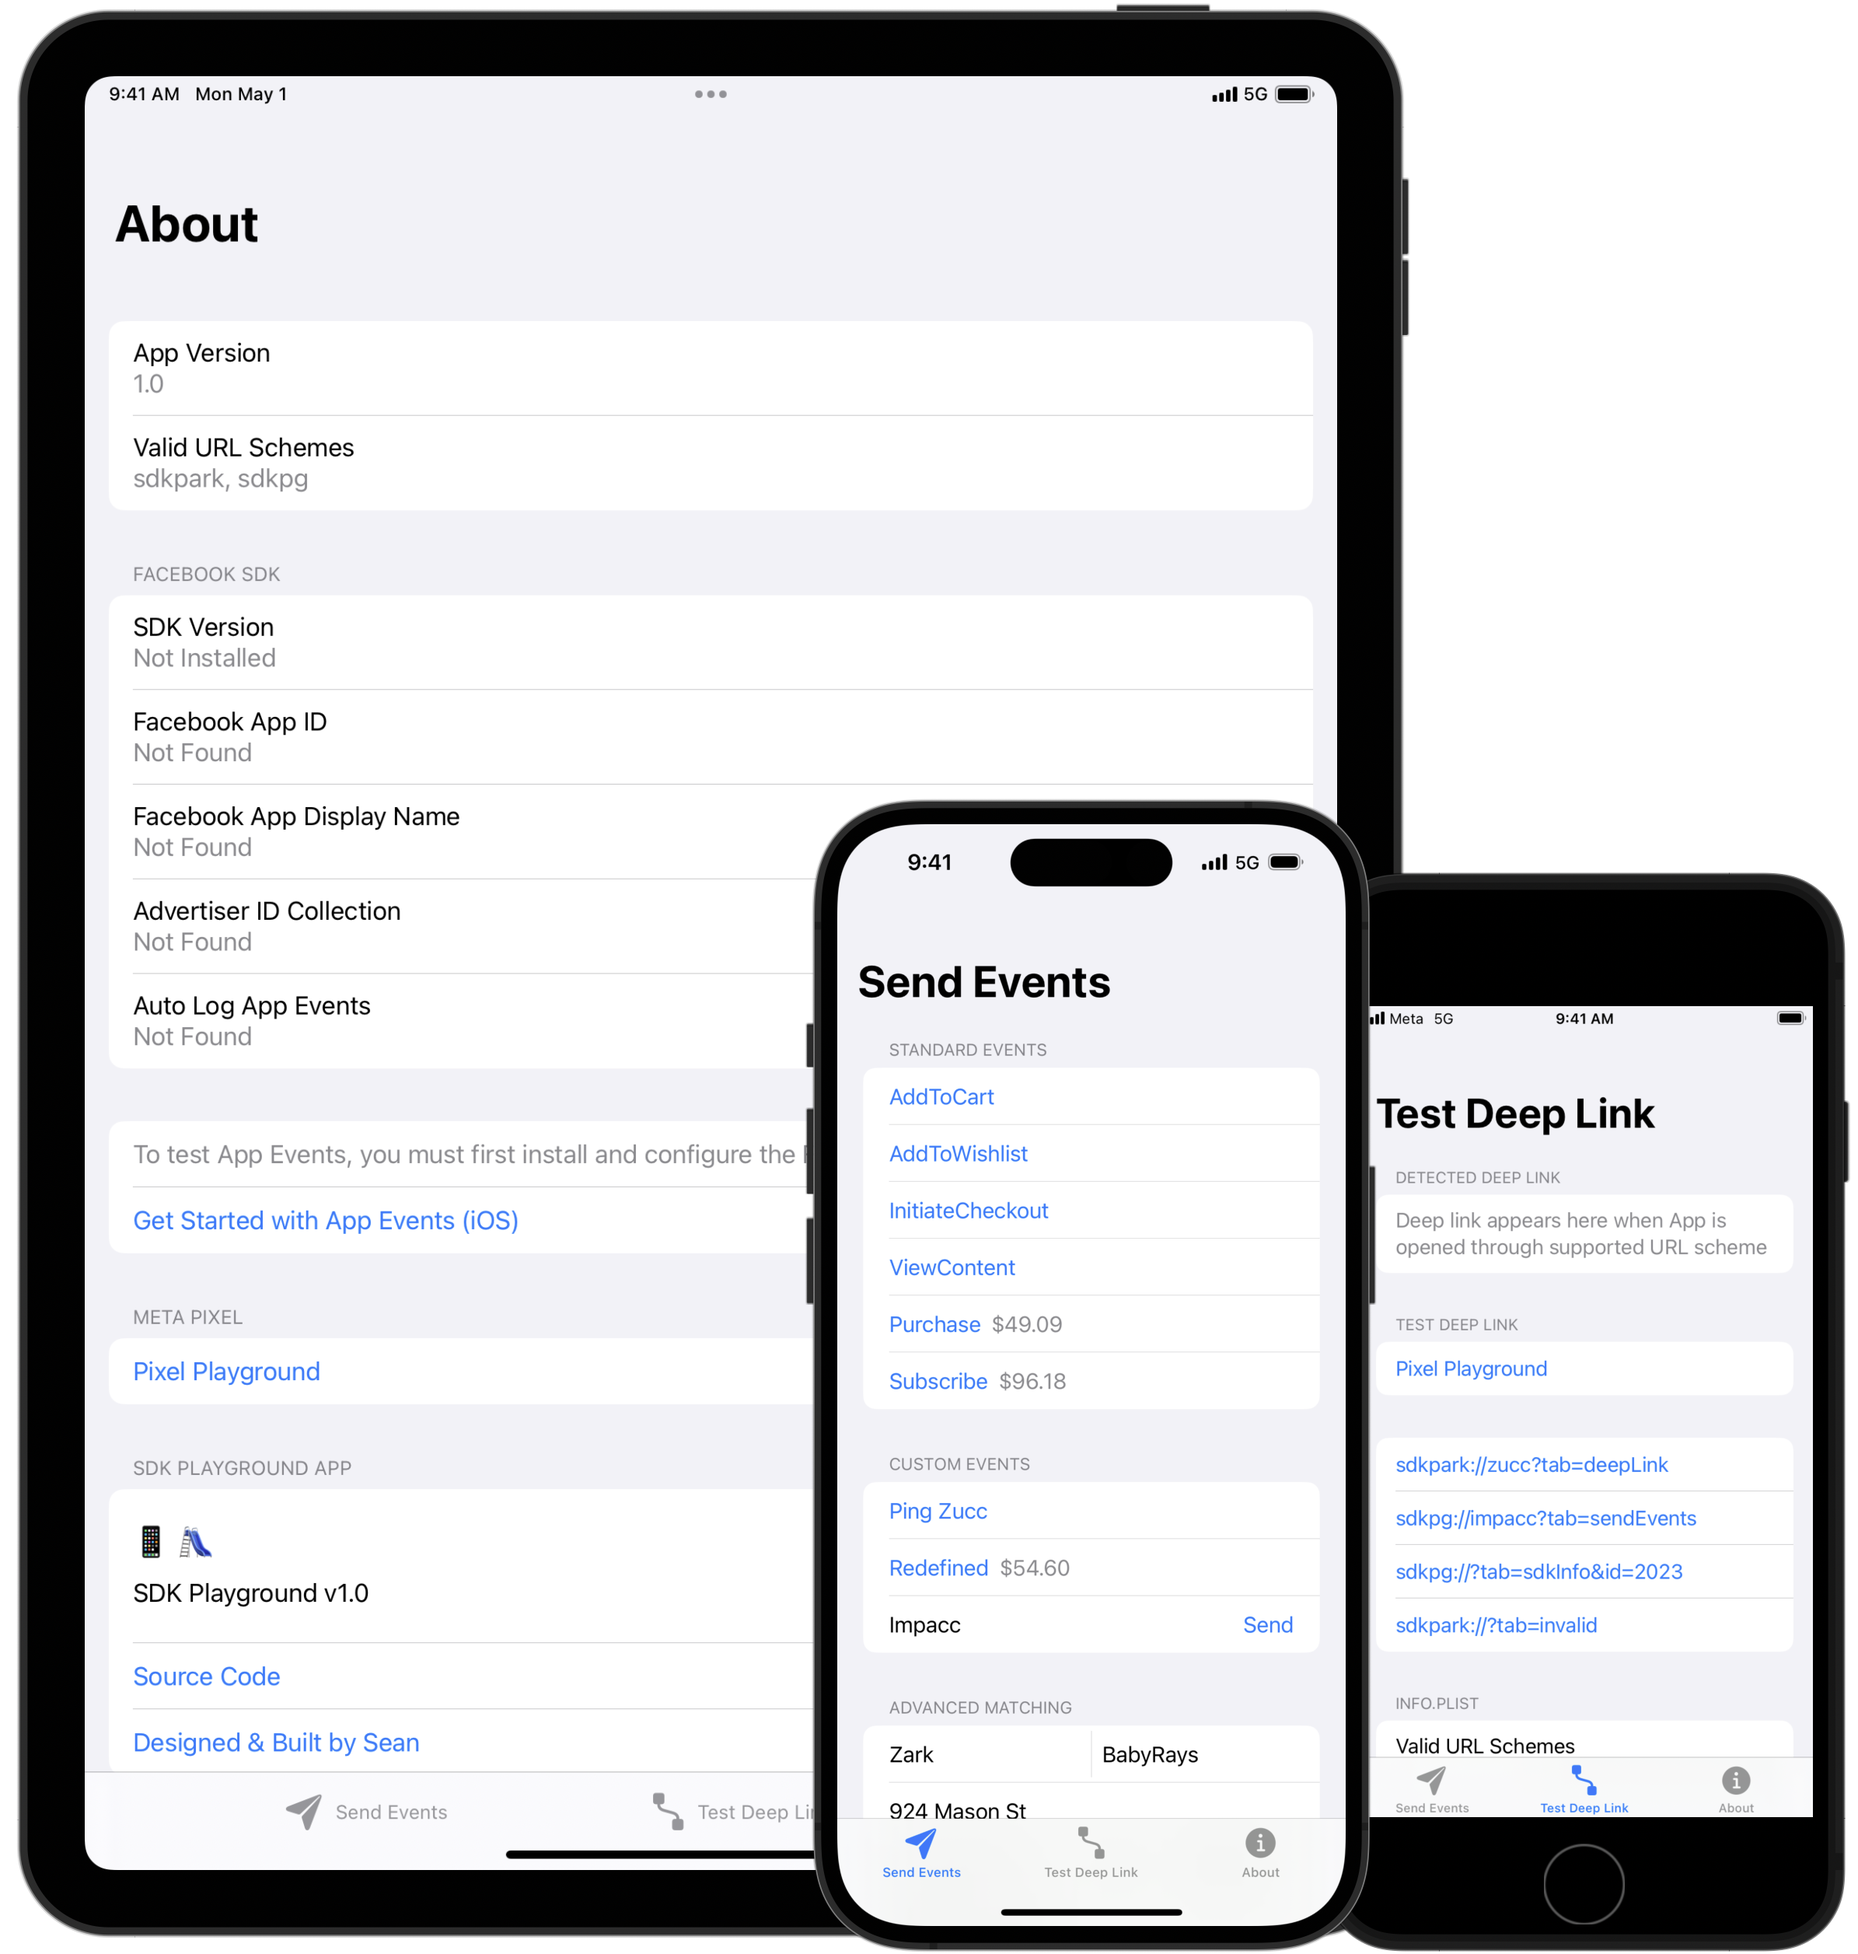
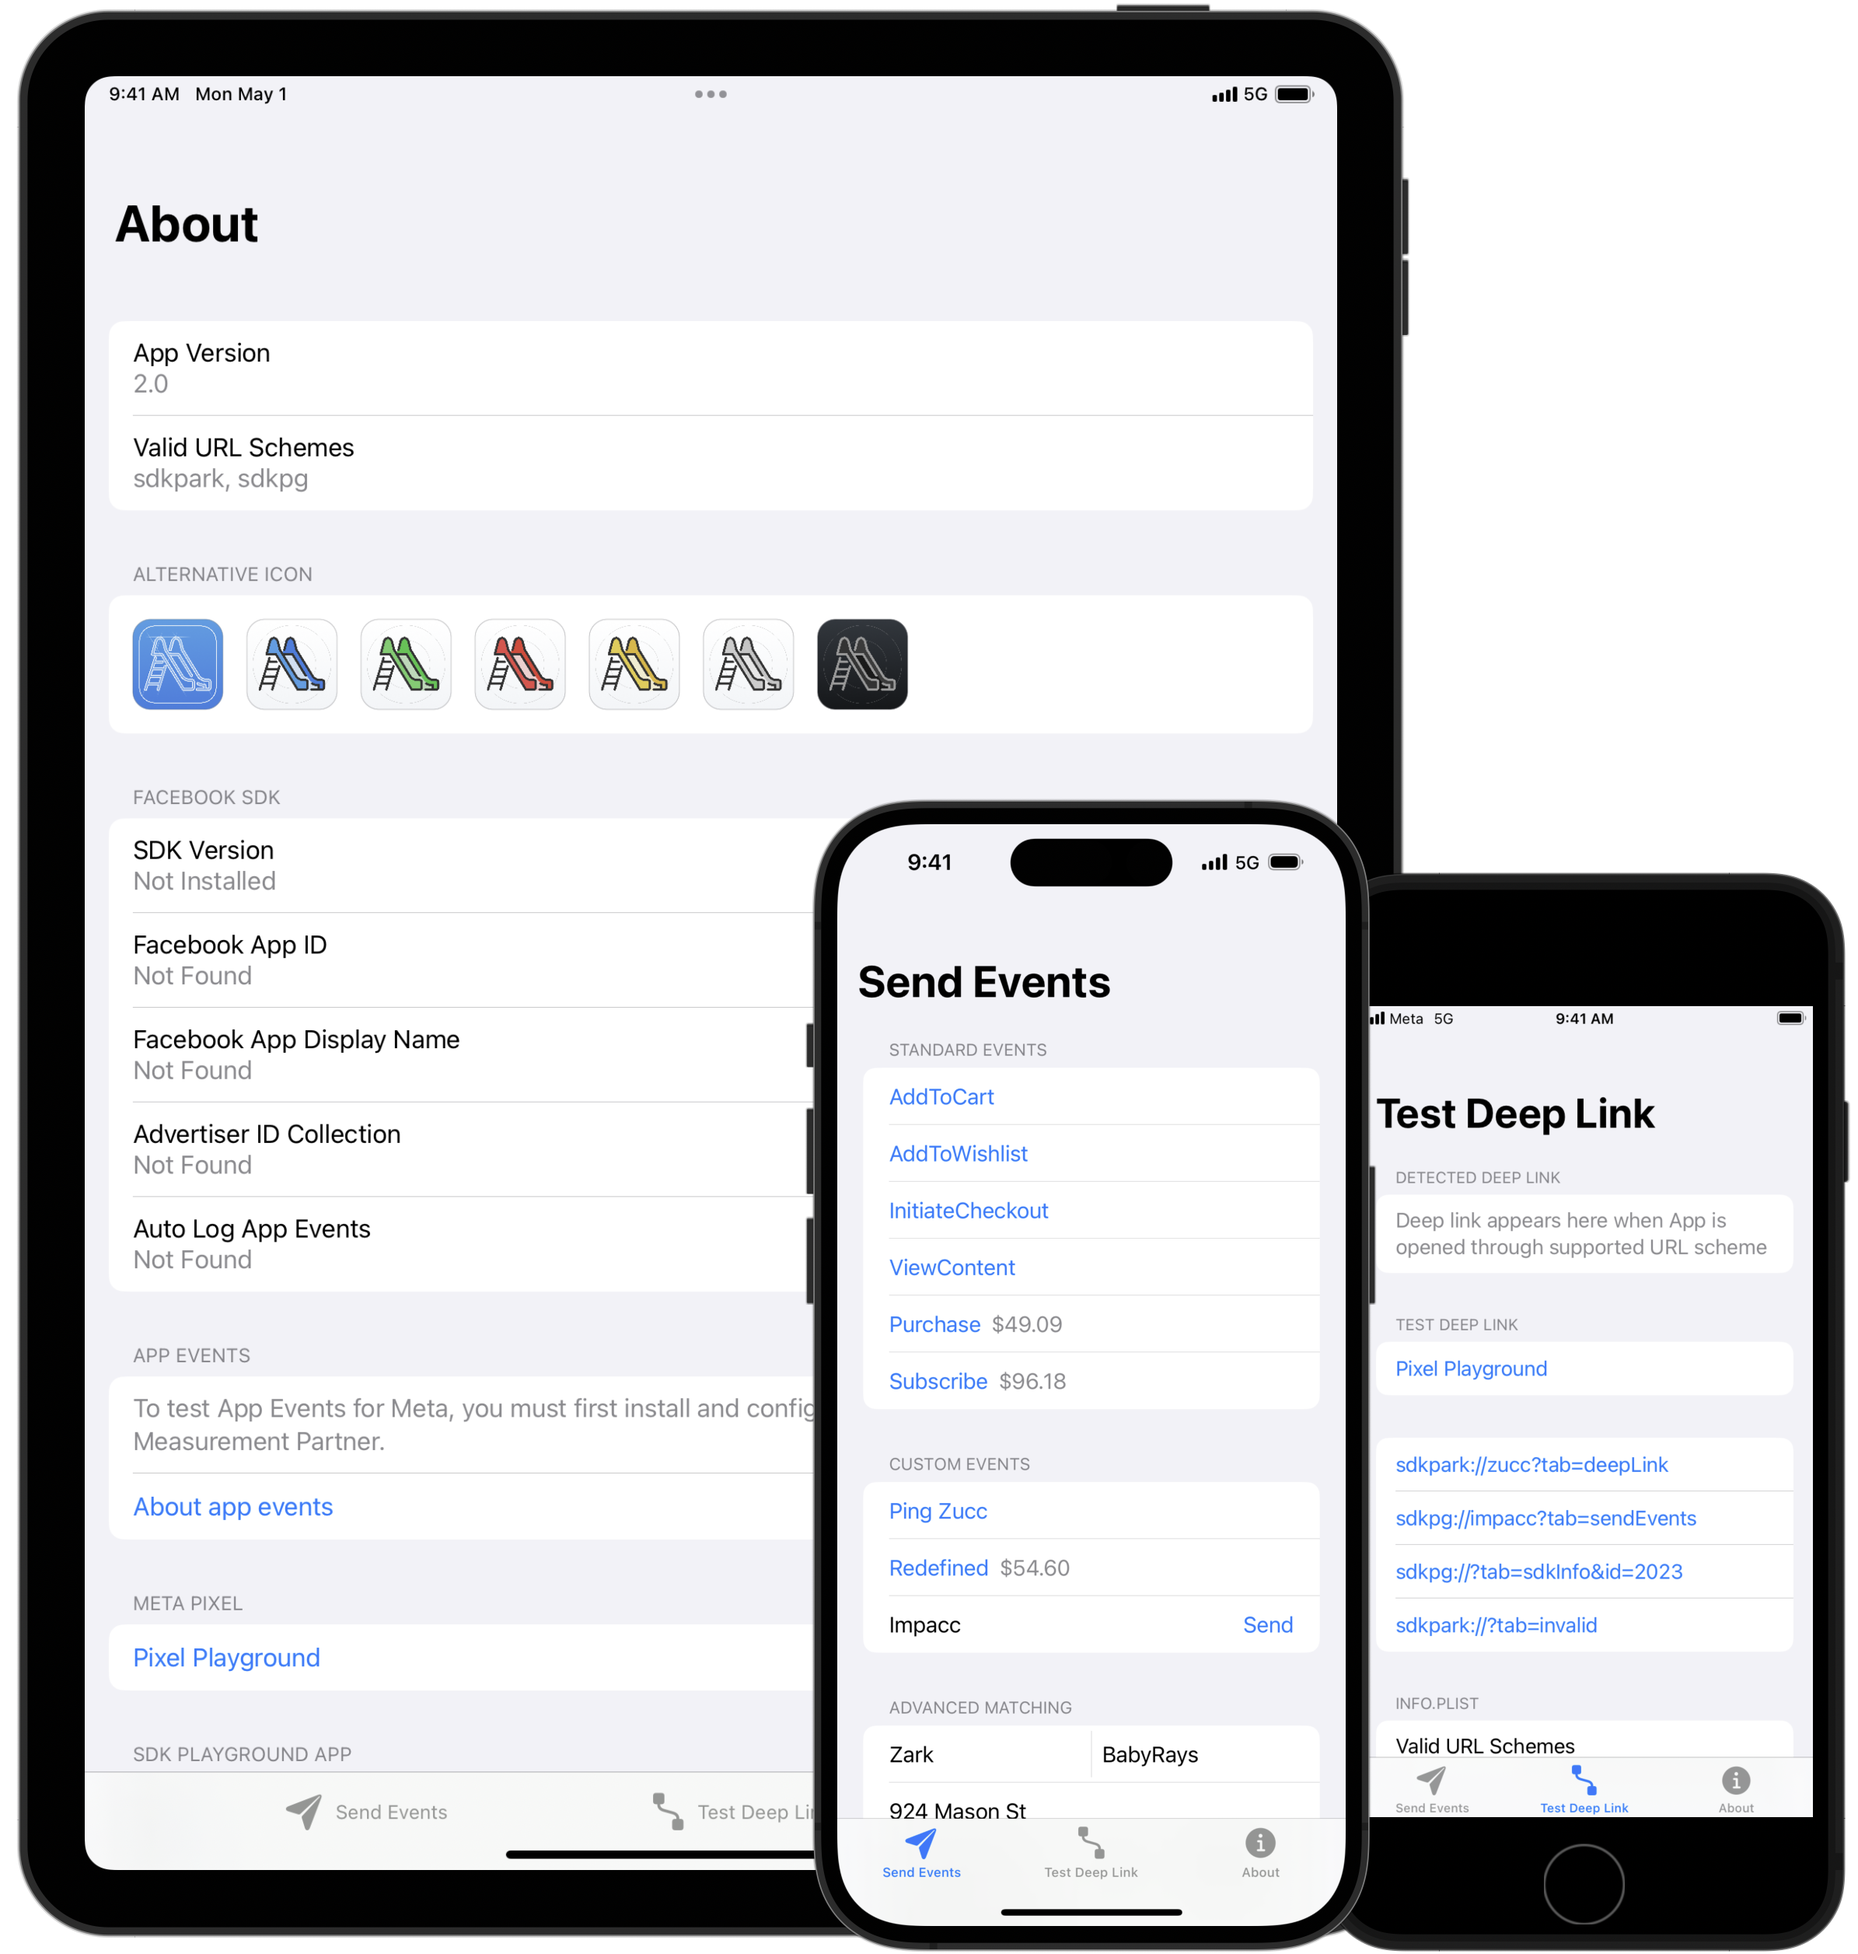
Updated README.md

diff --git a/README.md b/README.md
@@ -10,17 +10,16 @@ A demo iOS app to test Facebook and other SDK integrations for app events and de
 - Test automatic advanced matching
 - Test deep link
 - Request App Tracking Transparency authorization and status
-- Change alternative App icon
+- Change alternative App icon in app
 
 
 ## Branches
 
 | Branch | State | Bundle Identifier | Default Icon |
 |---|---|---|---|
-| [main](tree/main) | No SDK installed | com.seantai.sdk-playground | <img src="./assets/app-icon.png" width="64" alt="The App icon of the SDK Playground iOS app. The icon includes a playground slide on a blueprint."> |
-| [facebook-sdk](tree/facebook-sdk) | [Facebook iOS SDK v16.1.0](https://github.com/facebook/facebook-ios-sdk/releases/tag/v16.1.0) | com.seantai.sdk-playground.fb | <img src="./assets/app-icon-blue.png" width="64" alt="The App icon of the SDK Playground iOS app with Facebook SDK. The icon includes a blue playground slide on a white background."> |
-| appsflyer-sdk | To be added | com.seantai.sdk-playground.appsflyer | <img src="./assets/app-icon-green.png" width="64" alt="The App icon of the SDK Playground iOS app with AppsFlyer SDK. The icon includes a green playground slide on a white background."> |
-| branch-sdk | To be added | com.seantai.sdk-playground.branch | <img src="./assets/app-icon-yellow.png" width="64" alt="The App icon of the SDK Playground iOS app with Branch SDK. The icon includes a yellow playground slide on a white background."> |
+| [main](https://github.com/xtai/sdk-playground/tree/main) | No SDK | `com.seantai.sdk-playground` | <img src="./assets/app-icon.png" width="64" alt="The App icon of the SDK Playground iOS app. The icon includes a playground slide on a blueprint."> |
+| [facebook-sdk](https://github.com/xtai/sdk-playground/tree/facebook-sdk) | [Facebook iOS SDK v16.1.0](https://github.com/facebook/facebook-ios-sdk/releases/tag/v16.1.0) | `com.seantai.sdk-playground.fb` | <img src="./assets/app-icon-blue.png" width="64" alt="The App icon of the SDK Playground iOS app with Facebook SDK. The icon includes a blue playground slide on a white background."> |
+| [appsflyer-sdk](https://github.com/xtai/sdk-playground/tree/appsflyer-sdk) | [AppsFlyer iOS SDK v6.11.1](https://github.com/AppsFlyerSDK/AppsFlyerFramework/releases/tag/6.11.1) | `com.seantai.sdk-playground.appsflyer` | <img src="./assets/app-icon-green.png" width="64" alt="The App icon of the SDK Playground iOS app with AppsFlyer SDK. The icon includes a green playground slide on a white background."> |
 
 
 ## Screenshots
